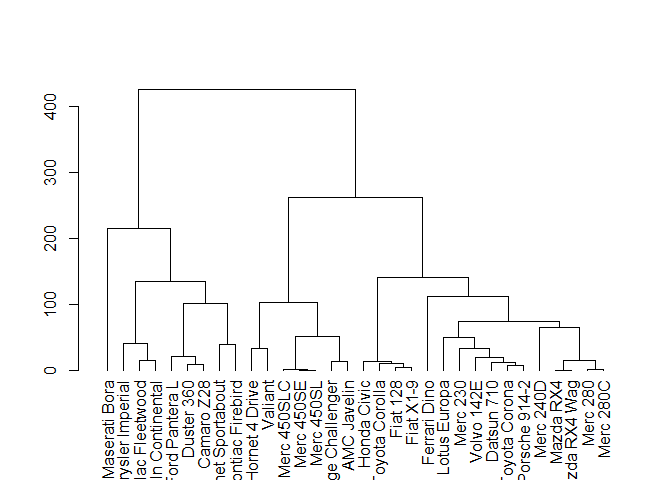
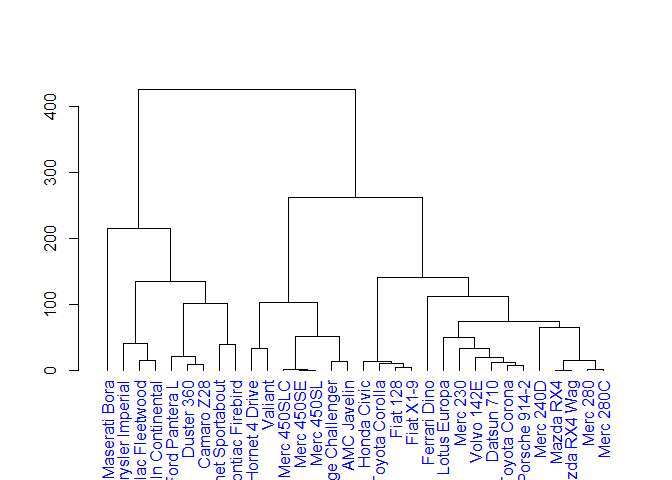
Add intro

Changed region(s): [[0.1562, 0.7812, 0.9062, 1.0]]

diff --git a/IDBac/Coloring_a_Dendrogram.md b/IDBac/Coloring_a_Dendrogram.md
@@ -3,21 +3,15 @@ Coloring\_a\_Dendrogram
 Chase Clark
 June 17, 2018
 
-Originally I was going to provide a RDS fileto use but decided against it. I left the instructions here for that since they were already written, but this part may be skipped.
+### Introduction
 
-### Reading in the file
+Dendrograms are a popular way to summarize high-dimensional data in a way that is (somewhat) more interpretable by our puny-human brains. They are used in IDBac to show similarity of protein fingerprints between samples but also, more traditionally, to show phylogenetic relationships. It is also used in many other ways.
 
-Replace `zz.RDS` with the full file path to `zz.RDS`
+Because of their use in IDBac and 16S analysis, I think these will be the first of the higher-level uses of programming that you will encounter during your project. Also, coloring or otherwise distinguishing the labels of a dendrogram tends to be one of the most useful ways to interact and highlight portions of a tree.
 
-`.rds` is a base-type storage file for R, it is efficient and more importantly... when loading it into R it can be assigned to any variable name - this means no NameSpace clashes
+Therefore, I wrote a quick intro to coloring dendrograms in R. While I say it is an "intro" and does it covers some of the very basics of R, it is not meant as a complete introduction... aka it is not expected that you will be coloring dendrograms after a first-pass/ or that you won't have to ask me for help or won't have to search google/stackoverflow/community.rstudio.com for help.
 
-In this case I took a matrix (where rows = samples, and columns = binned peaks) and called `dist()` on it to compute a distance matrix. Then I computed a dendrogram with `hclust()` In IDBac it's a bit more complicated than this (had to create own cosine function, interactivity, each function has settings, etc ) but this is the easiest for explaining.
-
-OK, so we will read the rds file using the function `readRDS()` and assign the contents to the variable `hclustObject`
-
-``` r
-hclustObject <- readRDS("zz.RDS")
-```
+------------------------------------------------------------------------
 
 Begin
 =====
@@ -293,7 +287,7 @@ hclustObject %>%
   plot
 ```
 
-![](Coloring_a_Dendrogram_files/figure-markdown_github/unnamed-chunk-23-1.png)
+![](Coloring_a_Dendrogram_files/figure-markdown_github/unnamed-chunk-22-1.png)
 
 And now plot with all labels colored blue:
 
@@ -303,7 +297,7 @@ hclustObject %>%
   plot
 ```
 
-![](Coloring_a_Dendrogram_files/figure-markdown_github/unnamed-chunk-24-1.png)
+![](Coloring_a_Dendrogram_files/figure-markdown_github/unnamed-chunk-23-1.png)
 
 ### Exercise:
 
@@ -366,6 +360,6 @@ hclustObject %>%
   plot
 ```
 
-![](Coloring_a_Dendrogram_files/figure-markdown_github/unnamed-chunk-30-1.png)
+![](Coloring_a_Dendrogram_files/figure-markdown_github/unnamed-chunk-29-1.png)
 
 ### How would you color everything black, except Fiats red and Mercedes ("Merc") blue?
